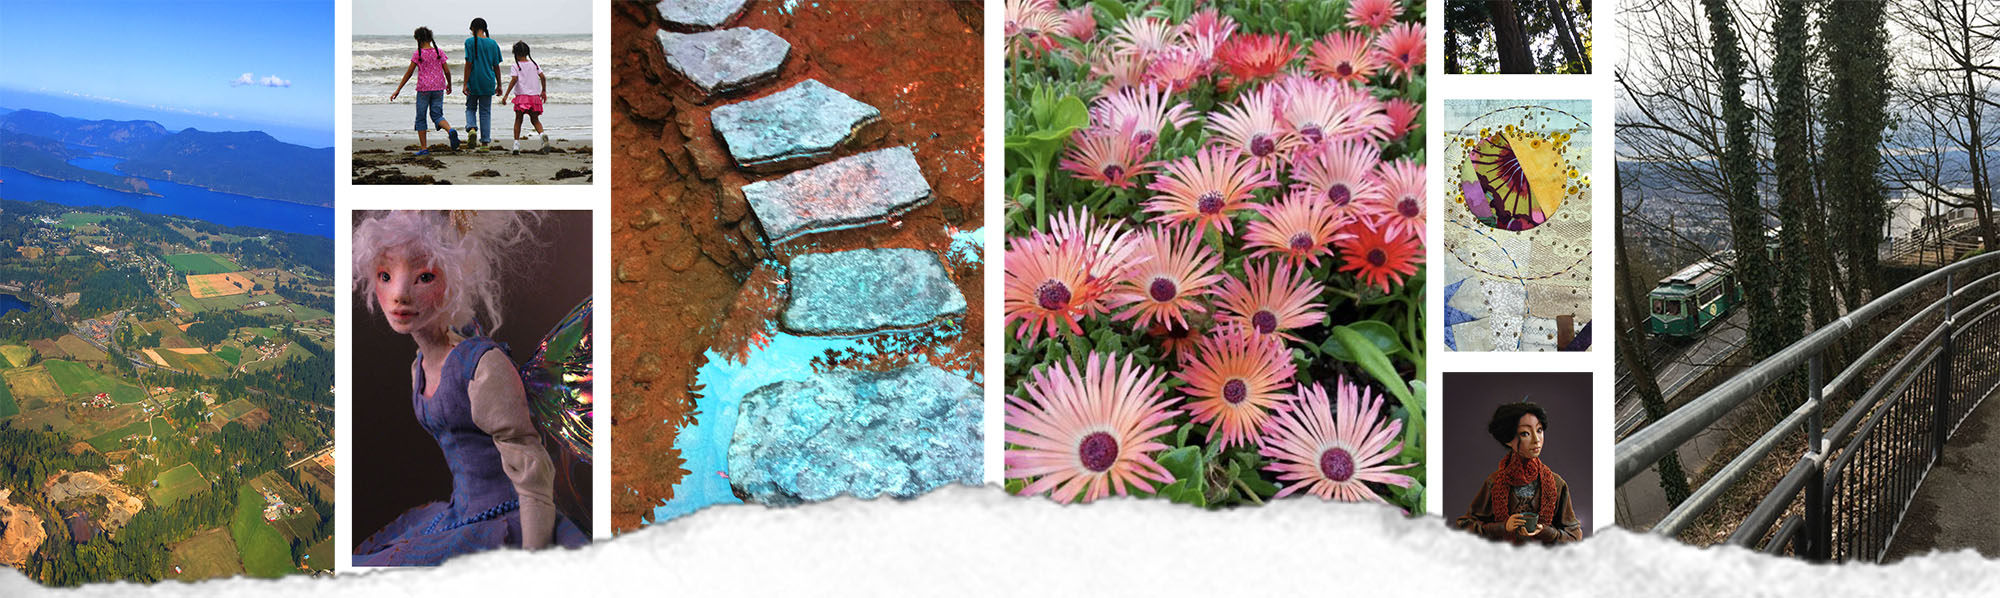
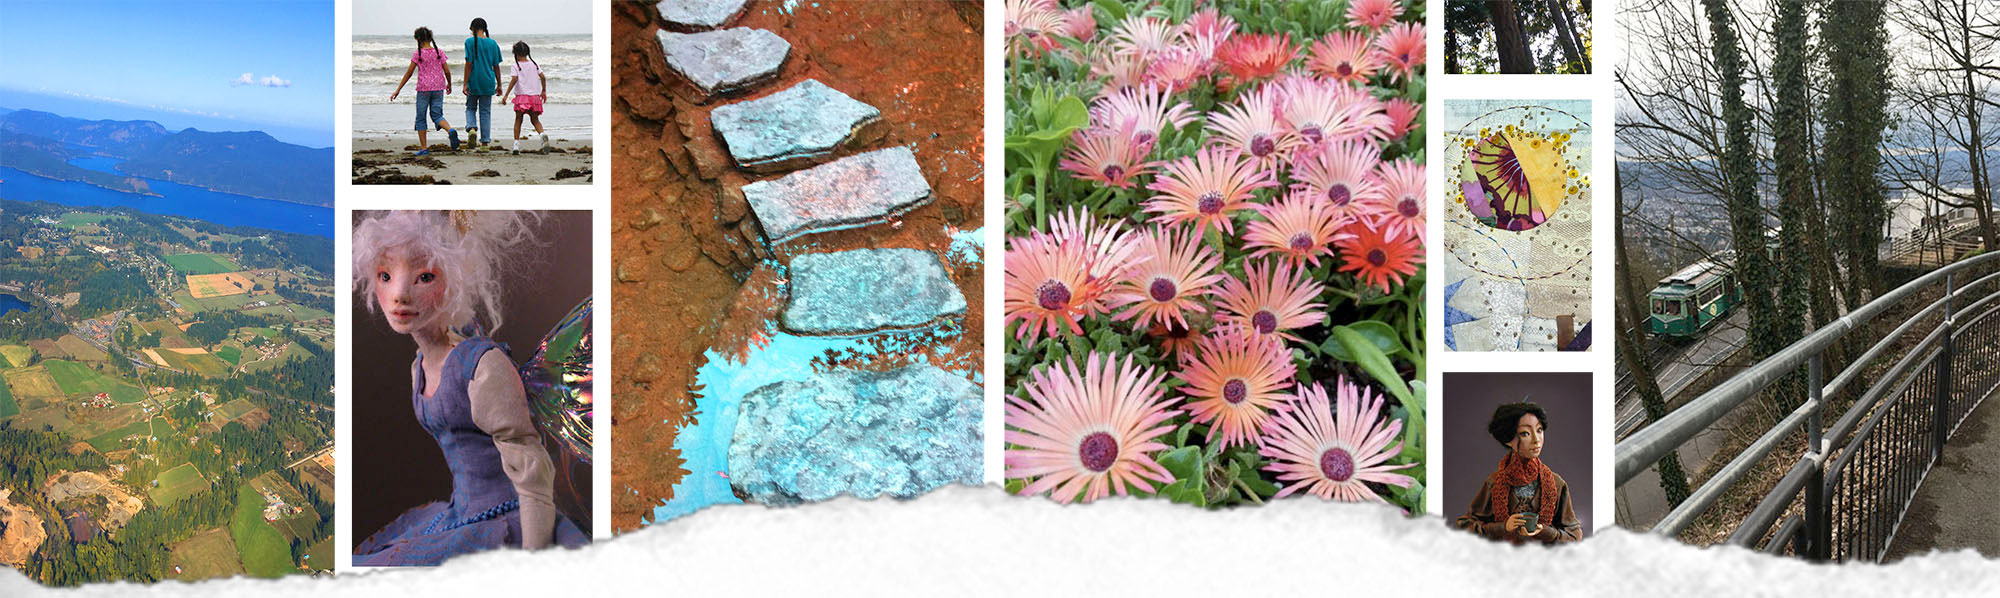
commit

diff --git a/islt_7310/Teaching.html b/islt_7310/Teaching.html
@@ -10,7 +10,7 @@
 </header>
 <nav></nav>
     <main>
-        <p><img src="img/banner.png" alt="banner"  width= "2000" height= "598"></p>
+        <p><img src="img/banner.jpg" alt="banner"  width= "2000" height= "598"></p>
         <h1>teaching philosophy</h1>
         <p>I love creating things that help others to learn. I am very inquisitive by nature which has helped me be a person that constantly is trying to figure out the “how” and “why” of the way things work. I believe that this helps me to figure out ways to provide learning solutions. 
         When it comes to learning, it is not always one-size-fits-all, so the challenge is to be flexible and constantly learning yourself, as you come up with ways to train others.</p>
